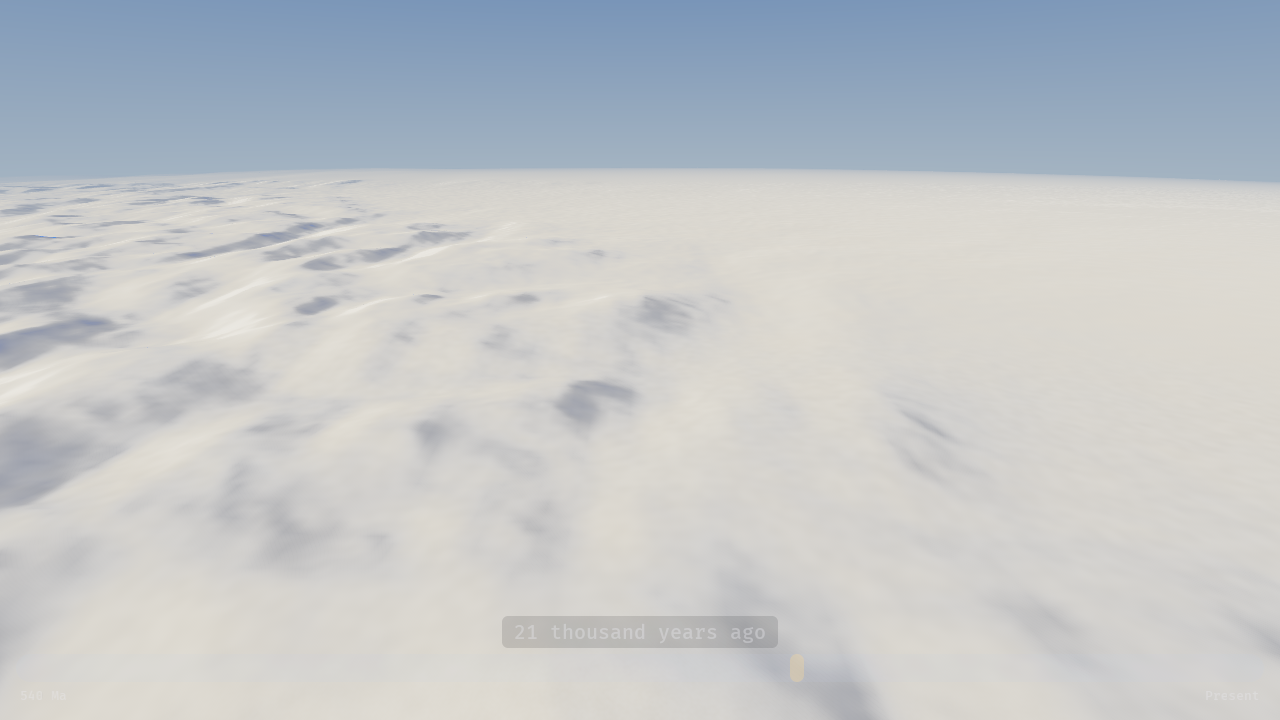
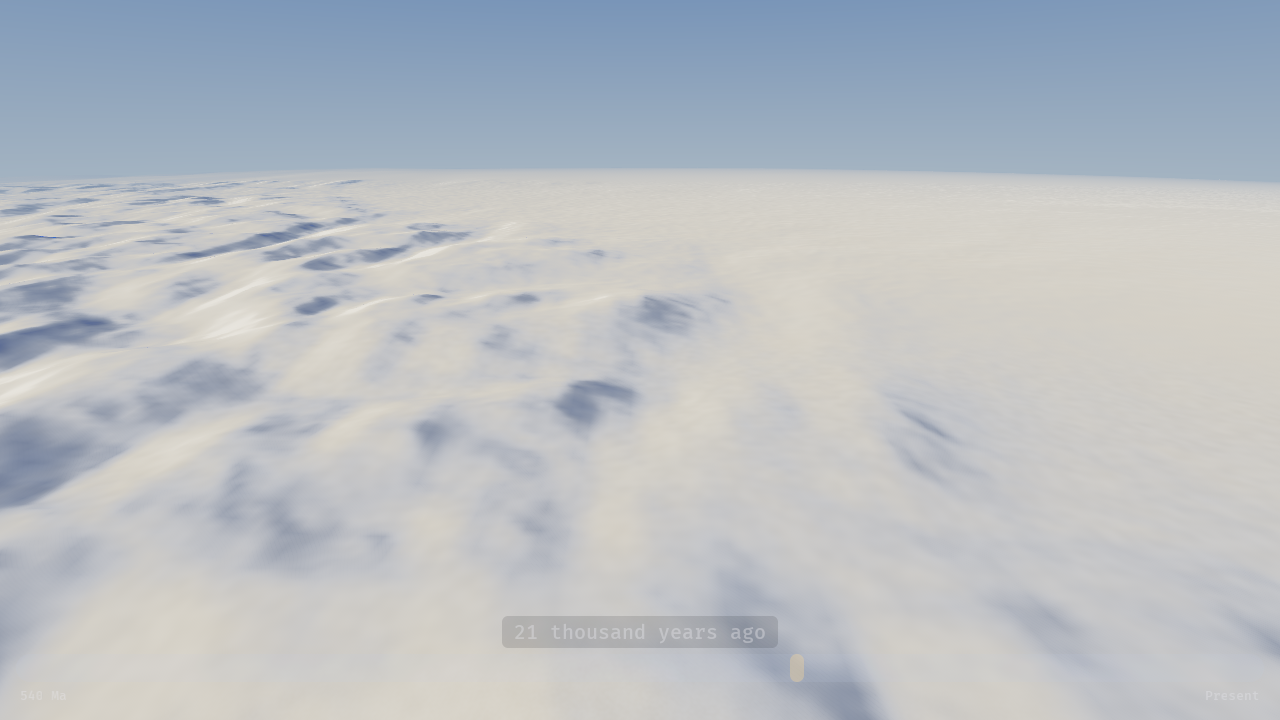
art pass: lift only the snow shade floor, keep lit snow and relief

diff --git a/crates/timefly/src/terrain/material.rs b/crates/timefly/src/terrain/material.rs
@@ -75,12 +75,13 @@ pub const BRUSH_STRENGTH: f32 = 0.08;
 /// only; the geometry and the slope rules (rock, snow) use the true slope.
 pub const RELIEF_EXAGGERATION: f32 = 1.8;
 
-/// How bright shaded snow stays against sunlit snow: the ramp's floor for snow (rock, forest and
-/// sand keep the 0.16 floor), so a snowfield in shadow is about half as bright as in sun.
-pub const SNOW_SHADE_FLOOR: f32 = 0.45;
-/// How much of the cool shadow hue shaded snow takes (1 = as strongly as everything else):
-/// half, so snow in shadow is pale blue rather than navy.
-pub const SNOW_HUE_FACTOR: f32 = 0.5;
+/// The ramp's shade level for snow (others keep 0.16): lifted so a snowfield in shadow is about
+/// half as bright as in sun (measured 0.50 on the Rockies shot). The half-light (0.58) and full
+/// light (1.0) bands do not move, so sunlit snow is unchanged and relief stays readable.
+pub const SNOW_SHADE_FLOOR: f32 = 0.22;
+/// How much of the cool shadow hue shaded snow takes (1 = as strongly as everything else, so the
+/// shade is clearly pale blue; the lifted floor is what keeps it from reading navy).
+pub const SNOW_HUE_FACTOR: f32 = 1.0;
 
 /// The painterly look's uniform (`TerrainLook` in `terrain.wesl`).
 #[derive(ShaderType, Copy, Clone, Debug, PartialEq, Reflect)]
@@ -498,8 +499,8 @@ mod tests {
                 center: RenderDir(DVec3::Z),
             },
         );
-        assert_eq!(look.relief.z, 0.45);
-        assert_eq!(look.relief.w, 0.5);
+        assert_eq!(look.relief.z, 0.22);
+        assert_eq!(look.relief.w, 1.0);
     }
 
     const CDLOD_WESL: &str = include_str!("../../assets/shaders/terrain_cdlod.wesl");
